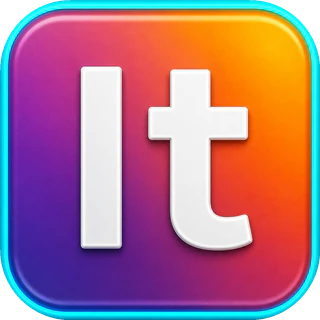
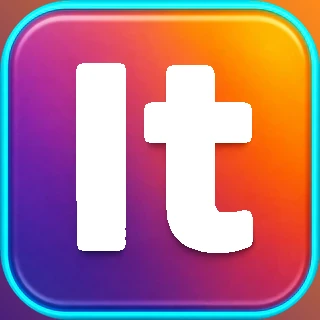
Hide the splash It behind an opaque hotspot so it can't show through.

diff --git a/index.html b/index.html
@@ -16,7 +16,7 @@
       href="https://fonts.googleapis.com/css2?family=Outfit:wght@500;600;700&display=swap"
       rel="stylesheet"
     />
-    <link rel="stylesheet" href="styles.css?v=it-cover" />
+    <link rel="stylesheet" href="styles.css?v=it-hide" />
   </head>
   <body class="splash">
     <main class="page">
@@ -24,23 +24,24 @@
         <source
           media="(orientation: portrait)"
           type="image/webp"
-          srcset="assets/hero-no-it-portrait.webp"
+          srcset="assets/hero-no-it-portrait.webp?v=it-hide"
         />
-        <source type="image/webp" srcset="assets/hero-no-it.webp" />
+        <source type="image/webp" srcset="assets/hero-no-it.webp?v=it-hide" />
         <source
           media="(orientation: portrait)"
-          srcset="assets/hero-no-it-portrait.png"
+          srcset="assets/hero-no-it-portrait.png?v=it-hide"
         />
         <img
           class="hero-image"
-          src="assets/hero-no-it.png"
+          src="assets/hero-no-it.png?v=it-hide"
           alt="Vibe INTEL"
           fetchpriority="high"
         />
       </picture>
 
       <a class="it-link" href="services.html" aria-label="Open VibeIt-Intel packages">
-        <img class="it-face" src="assets/it-button.webp" alt="It" width="80" height="80" />
+        <span class="it-back" aria-hidden="true"></span>
+        <img class="it-face" src="assets/it-button.webp?v=it-hide" alt="It" width="80" height="80" />
       </a>
 
       <div class="overlay">
@@ -48,6 +49,6 @@
       </div>
     </main>
     <div class="it-portal" aria-hidden="true"></div>
-    <script src="it-hotspot.js?v=it-cover"></script>
+    <script src="it-hotspot.js?v=it-hide"></script>
   </body>
 </html>

diff --git a/styles.css b/styles.css
@@ -76,8 +76,10 @@ body {
   height: 80px;
   overflow: hidden;
   visibility: hidden;
+  isolation: isolate;
   border-radius: 22%;
-  background: linear-gradient(135deg, #ff8a1a 12%, #4a1f7a 88%);
+  background-color: #4a1f7a;
+  background-image: linear-gradient(135deg, #ff8a1a 12%, #4a1f7a 88%);
   border: 0;
   text-decoration: none;
   cursor: pointer;
@@ -88,6 +90,16 @@ body {
   overflow: visible;
 }
 
+.it-back {
+  position: absolute;
+  inset: 0;
+  z-index: 0;
+  border-radius: 22%;
+  background-color: #4a1f7a;
+  background-image: linear-gradient(135deg, #ff8a1a 12%, #4a1f7a 88%);
+  pointer-events: none;
+}
+
 .it-face {
   position: relative;
   z-index: 1;
@@ -96,6 +108,8 @@ body {
   height: 100%;
   object-fit: cover;
   border-radius: 22%;
+  background-color: #4a1f7a;
+  background-image: linear-gradient(135deg, #ff8a1a 12%, #4a1f7a 88%);
   transform-origin: center;
   animation: it-button-pulse 1.25s ease-in-out infinite;
 }
